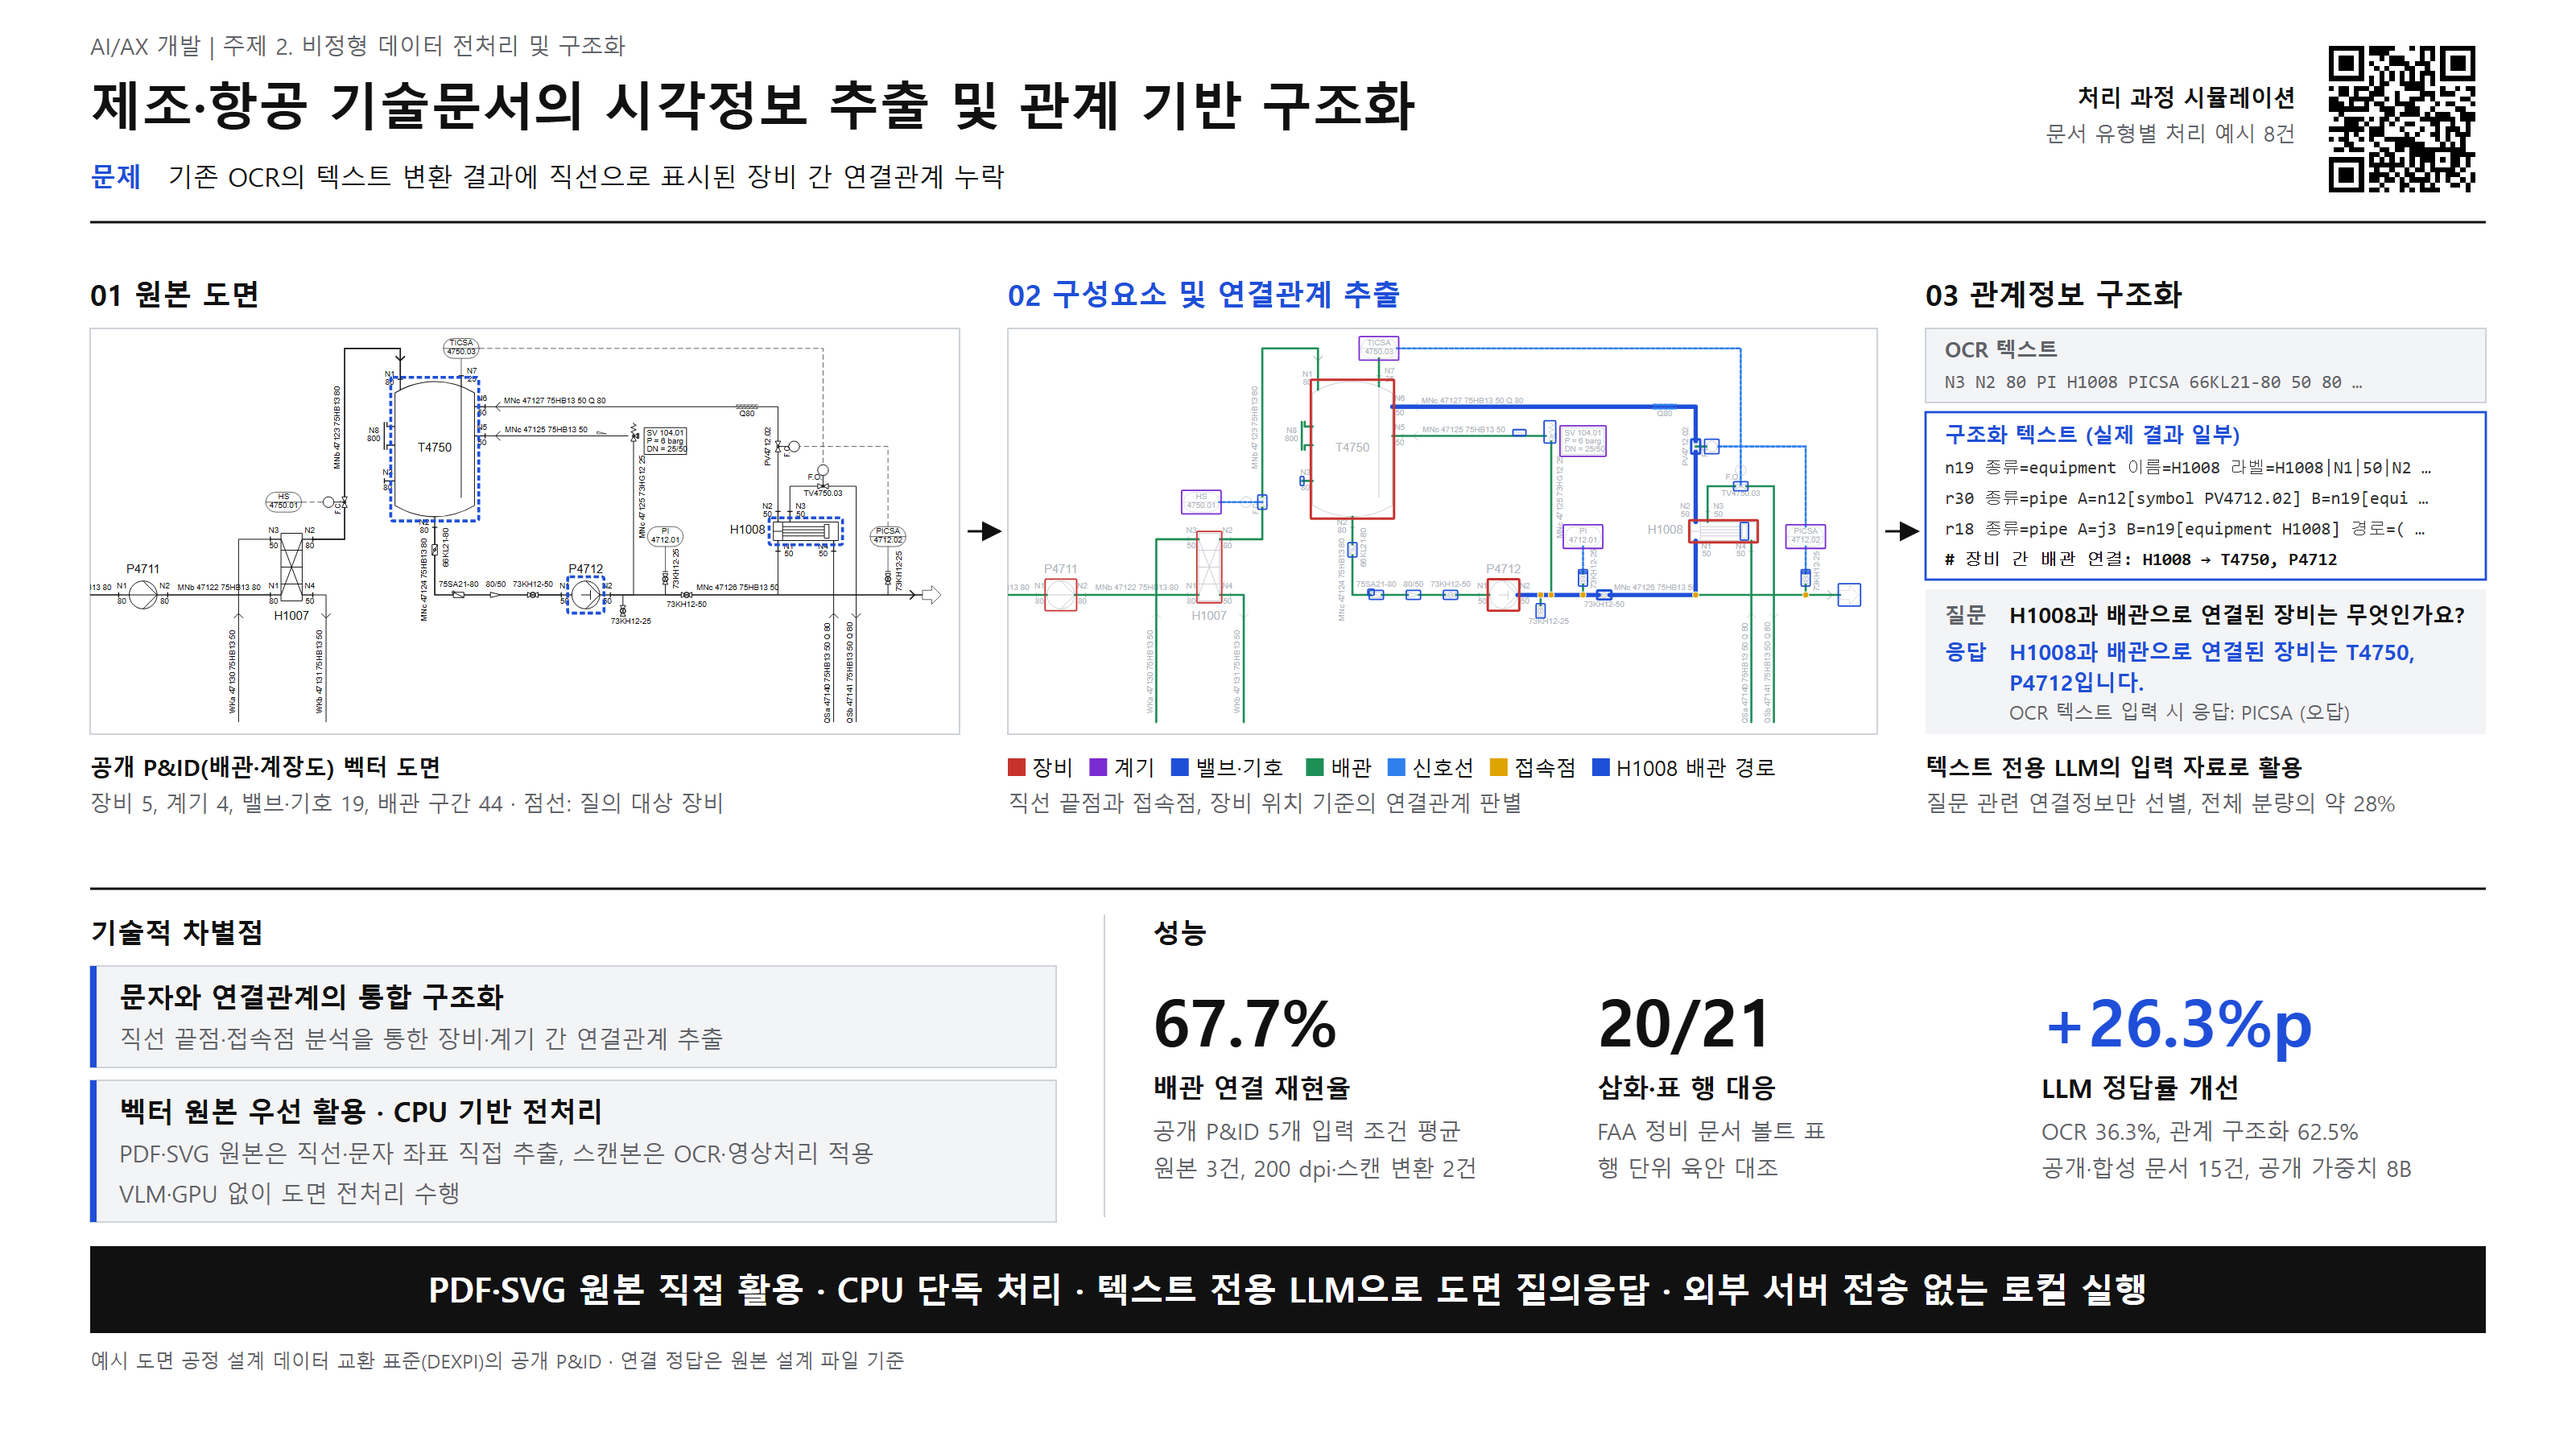
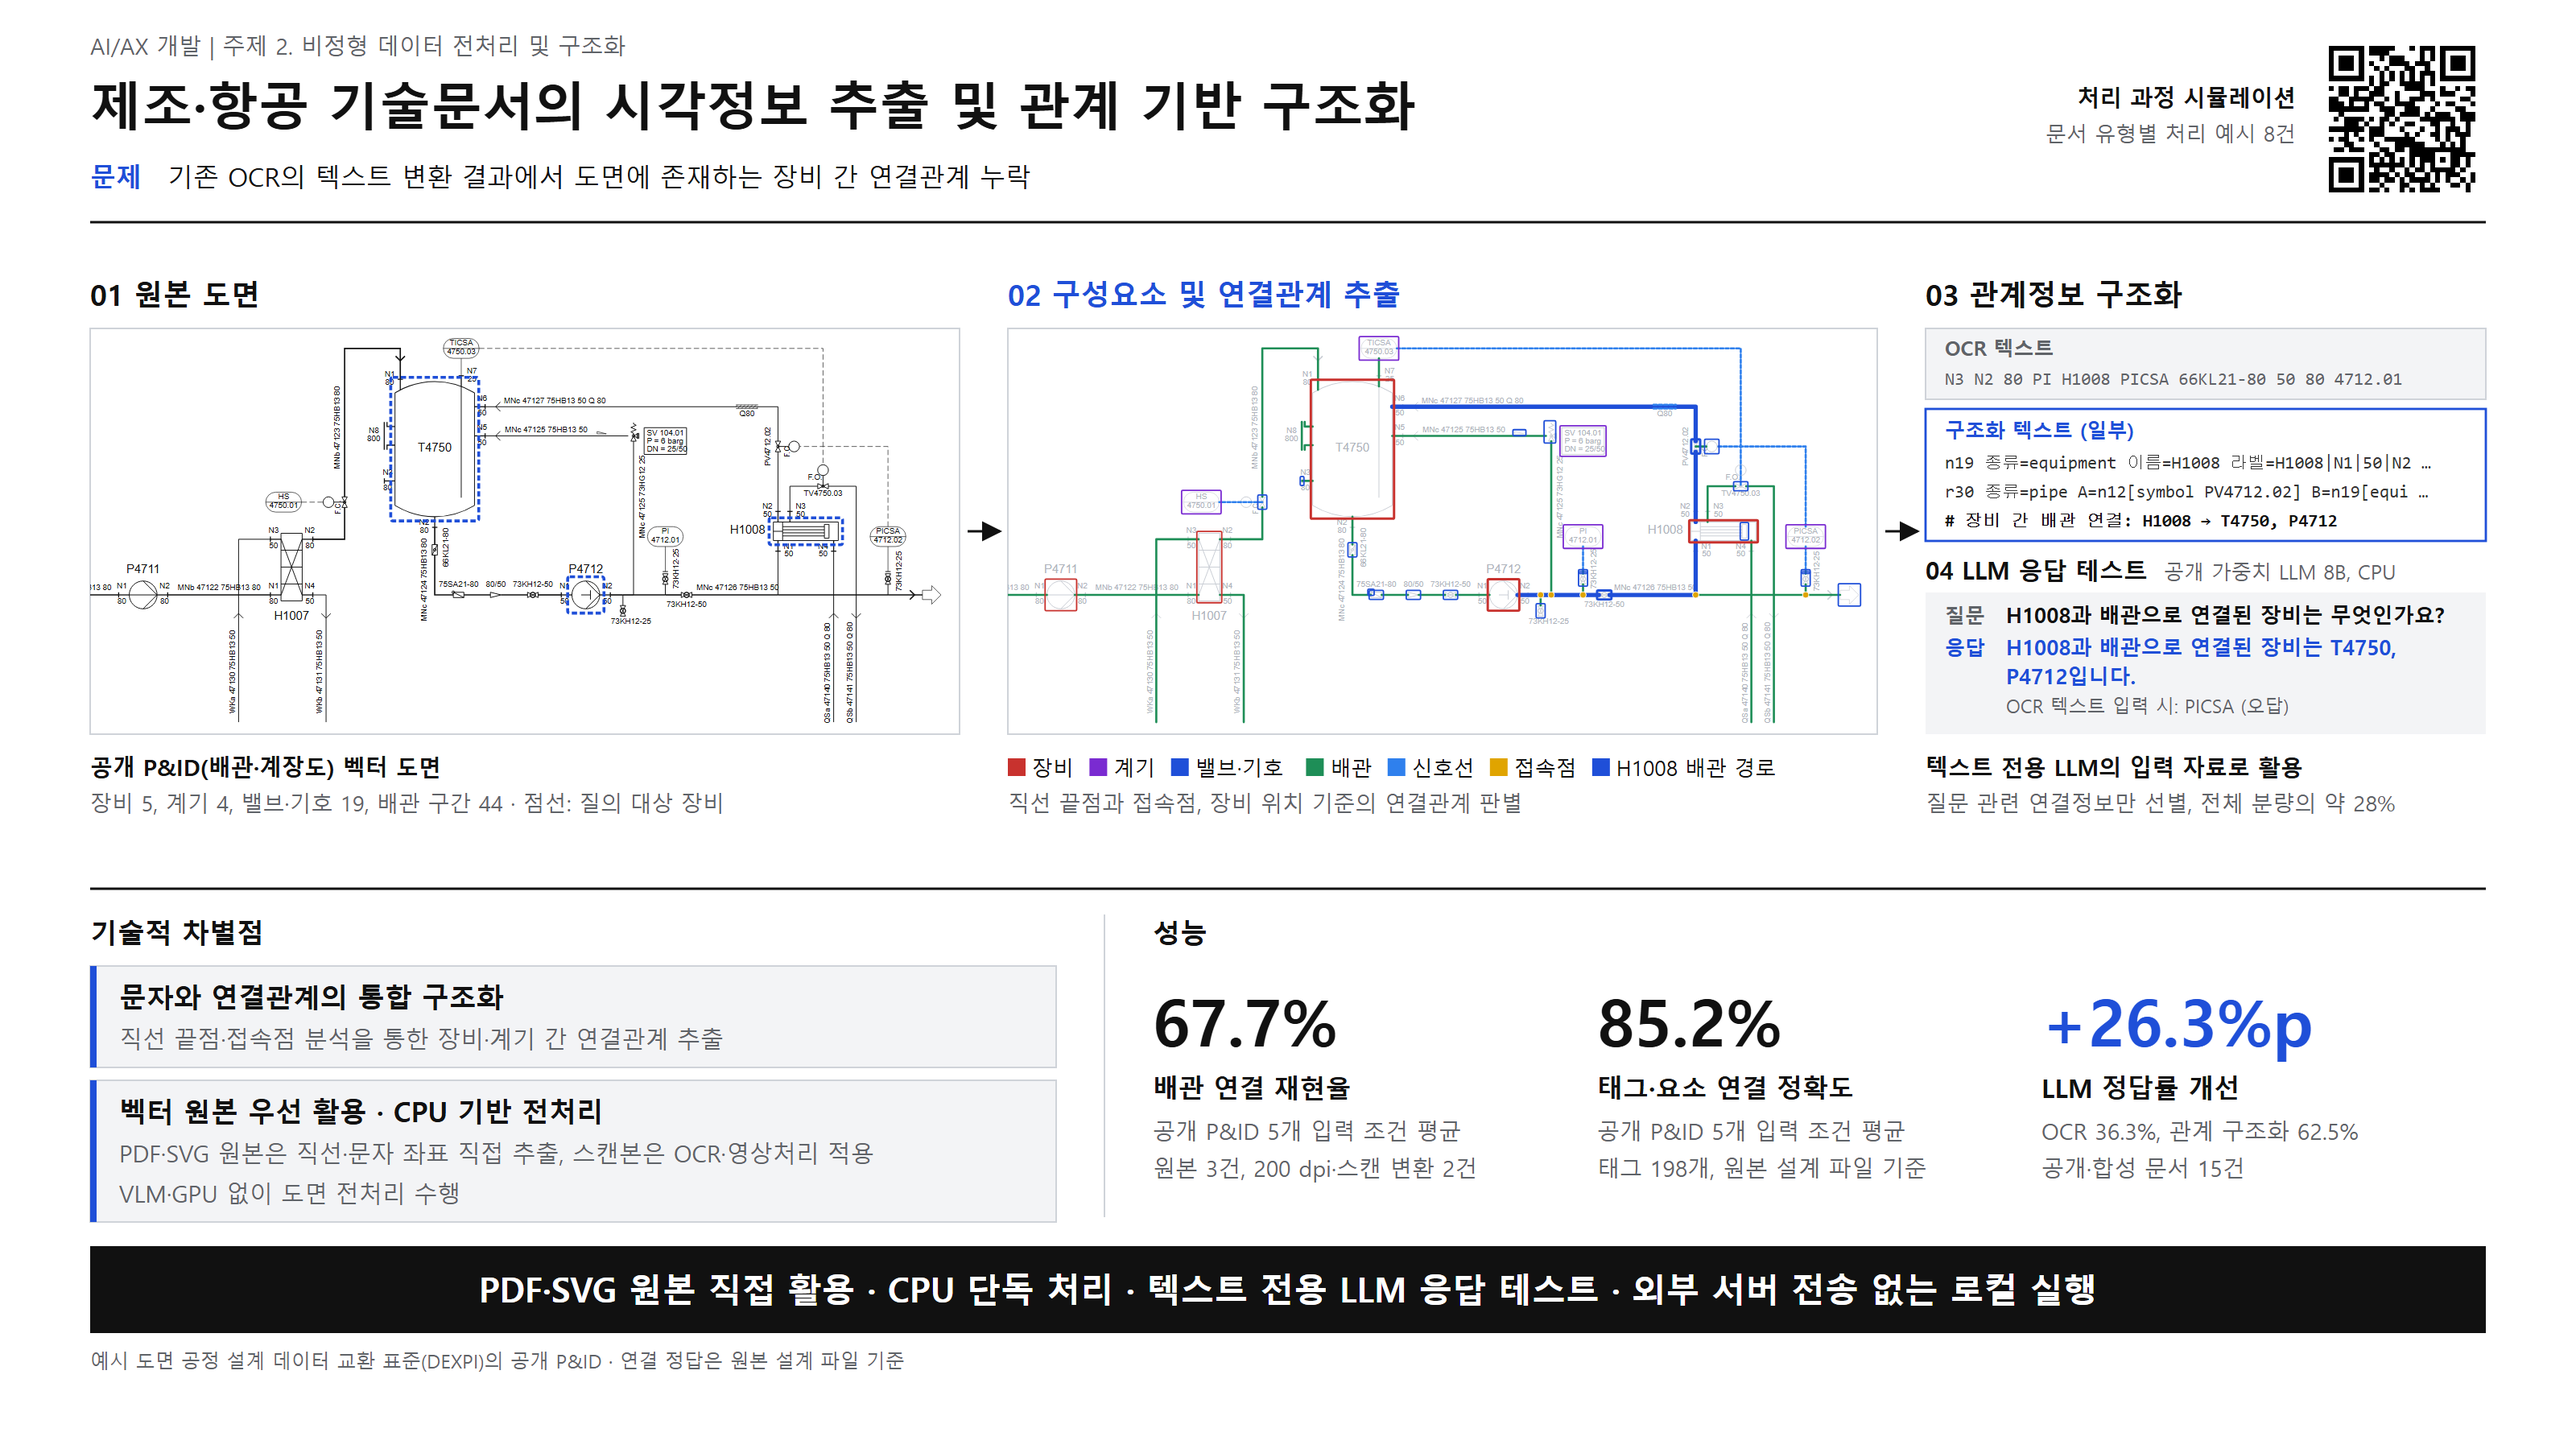
1장 슬라이드: LLM 응답 테스트 구획 분리, 태그·요소 연결 정확도로 성능 지표 교체, 문제 문구 수정

diff --git a/docs/figures/1장-도면-관계-구조화.html b/docs/figures/1장-도면-관계-구조화.html
@@ -4,7 +4,7 @@
 <text x="56" y="34" font-size="14" font-weight="400" fill="#5F6368" text-anchor="start">AI/AX 개발  |  주제 2. 비정형 데이터 전처리 및 구조화</text>
 <text x="56" y="78" font-size="32" font-weight="700" fill="#111111" text-anchor="start">제조·항공 기술문서의 시각정보 추출 및 관계 기반 구조화</text>
 <text x="56" y="116" font-size="16" font-weight="700" fill="#1F4FD8" text-anchor="start">문제</text>
-<text x="104" y="116" font-size="16" font-weight="400" fill="#111111" text-anchor="start">기존 OCR의 텍스트 변환 결과에 직선으로 표시된 장비 간 연결관계 누락</text>
+<text x="104" y="116" font-size="16" font-weight="400" fill="#111111" text-anchor="start">기존 OCR의 텍스트 변환 결과에서 도면에 존재하는 장비 간 연결관계 누락</text>
 <svg x="1440" y="22" width="104" height="104" viewBox="-2 -2 33 33"><rect x="-2" y="-2" width="33" height="33" fill="#FFFFFF"/><path d="M0 0.5h7m1 0h5m3 0h1m1 0h3m1 0h7m-29 1h1m5 0h1m1 0h4m6 0h1m1 0h1m1 0h1m5 0h1m-29 1h1m1 0h3m1 0h1m3 0h1m1 0h3m3 0h1m1 0h1m1 0h1m1 0h3m1 0h1m-29 1h1m1 0h3m1 0h1m1 0h1m3 0h4m1 0h3m2 0h1m1 0h3m1 0h1m-29 1h1m1 0h3m1 0h1m2 0h1m1 0h1m3 0h2m2 0h1m2 0h1m1 0h3m1 0h1m-29 1h1m5 0h1m3 0h1m1 0h1m1 0h1m1 0h1m1 0h3m1 0h1m5 0h1m-29 1h7m1 0h1m1 0h1m1 0h1m1 0h1m1 0h1m1 0h1m1 0h1m1 0h7m-21 1h1m1 0h2m2 0h5m1 0h1m-21 1h1m1 0h2m1 0h3m1 0h2m4 0h4m3 0h1m2 0h1m1 0h2m-27 1h2m1 0h1m2 0h3m2 0h1m4 0h3m1 0h3m3 0h1m-29 1h2m2 0h5m2 0h1m1 0h1m2 0h3m1 0h1m5 0h2m-28 1h3m1 0h1m2 0h1m1 0h2m2 0h4m4 0h1m1 0h2m3 0h1m-29 1h8m2 0h3m2 0h3m2 0h1m4 0h2m-25 1h1m8 0h2m1 0h4m1 0h1m1 0h3m2 0h3m-28 1h1m1 0h4m1 0h1m1 0h2m1 0h1m4 0h7m1 0h3m-26 1h3m1 0h1m2 0h1m1 0h1m2 0h2m3 0h2m2 0h1m2 0h1m-28 1h7m1 0h3m3 0h1m3 0h1m2 0h1m1 0h3m1 0h1m-25 1h1m1 0h1m2 0h3m4 0h1m1 0h1m2 0h2m1 0h1m1 0h3m-28 1h1m1 0h2m2 0h1m1 0h1m2 0h6m4 0h1m1 0h1m2 0h1m-24 1h2m4 0h1m3 0h6m3 0h1m1 0h1m1 0h1m-26 1h2m1 0h3m3 0h2m1 0h2m1 0h11m-19 1h2m1 0h2m3 0h5m3 0h5m-29 1h7m1 0h1m1 0h1m1 0h1m1 0h1m1 0h1m1 0h3m1 0h1m1 0h2m1 0h1m-28 1h1m5 0h1m1 0h7m1 0h1m1 0h1m1 0h1m3 0h2m1 0h1m-28 1h1m1 0h3m1 0h1m2 0h1m2 0h1m2 0h1m1 0h2m1 0h5m1 0h1m-27 1h1m1 0h3m1 0h1m1 0h4m1 0h1m1 0h2m2 0h1m1 0h1m1 0h3m2 0h1m-29 1h1m1 0h3m1 0h1m1 0h2m1 0h2m1 0h1m1 0h4m1 0h1m1 0h1m2 0h1m1 0h1m-29 1h1m5 0h1m3 0h1m3 0h2m2 0h1m1 0h1m3 0h2m1 0h1m-28 1h7m1 0h2m1 0h1m2 0h1m1 0h1m1 0h4m5 0h1" stroke="#000000" stroke-width="1" fill="none" shape-rendering="crispEdges"/></svg>
 <text x="1426" y="66" font-size="14" font-weight="700" fill="#111111" text-anchor="end">처리 과정 시뮬레이션</text>
 <text x="1426" y="88" font-size="13" font-weight="400" fill="#5F6368" text-anchor="end">문서 유형별 처리 예시 8건</text>
@@ -1246,22 +1246,23 @@
 <rect x="988.9299999999998" y="471" width="11" height="11" fill="#1F4FD8"/>
 <text x="1003.9299999999998" y="482" font-size="13" font-weight="400" fill="#111111" text-anchor="start">H1008 배관 경로</text>
 <text x="626" y="504" font-size="13.5" font-weight="400" fill="#5F6368" text-anchor="start">직선 끝점과 접속점, 장비 위치 기준의 연결관계 판별</text>
-<rect x="1196" y="204" width="348" height="46" rx="0" stroke="#CFD3D9" fill="#F3F4F6" stroke-width="1"/>
-<text x="1208" y="222" font-size="13" font-weight="700" fill="#5F6368" text-anchor="start">OCR 텍스트</text>
-<text x="1208" y="241" font-size="11.5" font-weight="400" fill="#5F6368" text-anchor="start" font-family="Consolas, 'Noto Sans KR', monospace">N3 N2 80 PI H1008 PICSA 66KL21-80 50 80 …</text>
-<rect x="1196" y="256" width="348" height="104" rx="0" stroke="#1F4FD8" fill="#FFFFFF" stroke-width="1.4"/>
-<text x="1208" y="275" font-size="13" font-weight="700" fill="#1F4FD8" text-anchor="start">구조화 텍스트 (실제 결과 일부)</text>
-<text x="1208" y="294" font-size="11" font-weight="400" fill="#333333" text-anchor="start" font-family="Consolas, 'Noto Sans KR', monospace">n19 종류=equipment 이름=H1008 라벨=H1008|N1|50|N2 …</text>
-<text x="1208" y="313" font-size="11" font-weight="400" fill="#333333" text-anchor="start" font-family="Consolas, 'Noto Sans KR', monospace">r30 종류=pipe A=n12[symbol PV4712.02] B=n19[equi …</text>
-<text x="1208" y="332" font-size="11" font-weight="400" fill="#333333" text-anchor="start" font-family="Consolas, 'Noto Sans KR', monospace">r18 종류=pipe A=j3 B=n19[equipment H1008] 경로=( …</text>
-<text x="1208" y="351" font-size="11" font-weight="700" fill="#111111" text-anchor="start" font-family="Consolas, 'Noto Sans KR', monospace"># 장비 간 배관 연결: H1008 → T4750, P4712</text>
-<rect x="1196" y="366" width="348" height="90" rx="0" stroke="none" fill="#F3F4F6" stroke-width="1"/>
-<text x="1208" y="387" font-size="13" font-weight="700" fill="#5F6368" text-anchor="start">질문</text>
-<text x="1248" y="387" font-size="13.5" font-weight="700" fill="#111111" text-anchor="start">H1008과 배관으로 연결된 장비는 무엇인가요?</text>
-<text x="1208" y="410" font-size="13" font-weight="700" fill="#1F4FD8" text-anchor="start">응답</text>
-<text x="1248" y="410" font-size="13.5" font-weight="700" fill="#1F4FD8" text-anchor="start">H1008과 배관으로 연결된 장비는 T4750,</text>
-<text x="1248" y="429" font-size="13.5" font-weight="700" fill="#1F4FD8" text-anchor="start">P4712입니다.</text>
-<text x="1248" y="447" font-size="12" font-weight="400" fill="#5F6368" text-anchor="start">OCR 텍스트 입력 시 응답: PICSA (오답)</text>
+<rect x="1196" y="204" width="348" height="44" rx="0" stroke="#CFD3D9" fill="#F3F4F6" stroke-width="1"/>
+<text x="1208" y="221" font-size="12.5" font-weight="700" fill="#5F6368" text-anchor="start">OCR 텍스트</text>
+<text x="1208" y="239" font-size="11" font-weight="400" fill="#5F6368" text-anchor="start" font-family="Consolas, 'Noto Sans KR', monospace">N3 N2 80 PI H1008 PICSA 66KL21-80 50 80 4712.01</text>
+<rect x="1196" y="254" width="348" height="82" rx="0" stroke="#1F4FD8" fill="#FFFFFF" stroke-width="1.4"/>
+<text x="1208" y="272" font-size="12.5" font-weight="700" fill="#1F4FD8" text-anchor="start">구조화 텍스트 (일부)</text>
+<text x="1208" y="291" font-size="11" font-weight="400" fill="#333333" text-anchor="start" font-family="Consolas, 'Noto Sans KR', monospace">n19 종류=equipment 이름=H1008 라벨=H1008|N1|50|N2 …</text>
+<text x="1208" y="309" font-size="11" font-weight="400" fill="#333333" text-anchor="start" font-family="Consolas, 'Noto Sans KR', monospace">r30 종류=pipe A=n12[symbol PV4712.02] B=n19[equi …</text>
+<text x="1208" y="327" font-size="11" font-weight="700" fill="#111111" text-anchor="start" font-family="Consolas, 'Noto Sans KR', monospace"># 장비 간 배관 연결: H1008 → T4750, P4712</text>
+<text x="1196" y="360" font-size="15" font-weight="700" fill="#111111" text-anchor="start">04  LLM 응답 테스트</text>
+<text x="1344.03" y="360" font-size="12.5" font-weight="400" fill="#5F6368" text-anchor="start">공개 가중치 LLM 8B, CPU</text>
+<rect x="1196" y="368" width="348" height="88" rx="0" stroke="none" fill="#F3F4F6" stroke-width="1"/>
+<text x="1208" y="387" font-size="12.5" font-weight="700" fill="#5F6368" text-anchor="start">질문</text>
+<text x="1246" y="387" font-size="13" font-weight="700" fill="#111111" text-anchor="start">H1008과 배관으로 연결된 장비는 무엇인가요?</text>
+<text x="1208" y="407" font-size="12.5" font-weight="700" fill="#1F4FD8" text-anchor="start">응답</text>
+<text x="1246" y="407" font-size="13" font-weight="700" fill="#1F4FD8" text-anchor="start">H1008과 배관으로 연결된 장비는 T4750,</text>
+<text x="1246" y="425" font-size="13" font-weight="700" fill="#1F4FD8" text-anchor="start">P4712입니다.</text>
+<text x="1246" y="443" font-size="11.5" font-weight="400" fill="#5F6368" text-anchor="start">OCR 텍스트 입력 시: PICSA (오답)</text>
 <text x="1196" y="482" font-size="14" font-weight="700" fill="#111111" text-anchor="start">텍스트 전용 LLM의 입력 자료로 활용</text>
 <text x="1196" y="504" font-size="13.5" font-weight="400" fill="#5F6368" text-anchor="start">질문 관련 연결정보만 선별, 전체 분량의 약 28%</text>
 <line x1="56" y1="552" x2="1544" y2="552" stroke="#111111" stroke-width="1.4"/>
@@ -1281,15 +1282,15 @@
 <text x="716.0" y="682" font-size="16" font-weight="700" fill="#111111" text-anchor="start">배관 연결 재현율</text>
 <text x="716.0" y="708" font-size="14" font-weight="400" fill="#5F6368" text-anchor="start">공개 P&amp;ID 5개 입력 조건 평균</text>
 <text x="716.0" y="731" font-size="14" font-weight="400" fill="#5F6368" text-anchor="start">원본 3건, 200 dpi·스캔 변환 2건</text>
-<text x="992.0" y="650" font-size="40" font-weight="700" fill="#111111" text-anchor="start">20/21</text>
-<text x="992.0" y="682" font-size="16" font-weight="700" fill="#111111" text-anchor="start">삽화·표 행 대응</text>
-<text x="992.0" y="708" font-size="14" font-weight="400" fill="#5F6368" text-anchor="start">FAA 정비 문서 볼트 표</text>
-<text x="992.0" y="731" font-size="14" font-weight="400" fill="#5F6368" text-anchor="start">행 단위 육안 대조</text>
+<text x="992.0" y="650" font-size="40" font-weight="700" fill="#111111" text-anchor="start">85.2%</text>
+<text x="992.0" y="682" font-size="16" font-weight="700" fill="#111111" text-anchor="start">태그·요소 연결 정확도</text>
+<text x="992.0" y="708" font-size="14" font-weight="400" fill="#5F6368" text-anchor="start">공개 P&amp;ID 5개 입력 조건 평균</text>
+<text x="992.0" y="731" font-size="14" font-weight="400" fill="#5F6368" text-anchor="start">태그 198개, 원본 설계 파일 기준</text>
 <text x="1268.0" y="650" font-size="40" font-weight="700" fill="#1F4FD8" text-anchor="start">+26.3%p</text>
 <text x="1268.0" y="682" font-size="16" font-weight="700" fill="#111111" text-anchor="start">LLM 정답률 개선</text>
 <text x="1268.0" y="708" font-size="14" font-weight="400" fill="#5F6368" text-anchor="start">OCR 36.3%, 관계 구조화 62.5%</text>
-<text x="1268.0" y="731" font-size="14" font-weight="400" fill="#5F6368" text-anchor="start">공개·합성 문서 15건, 공개 가중치 8B</text>
+<text x="1268.0" y="731" font-size="14" font-weight="400" fill="#5F6368" text-anchor="start">공개·합성 문서 15건</text>
 <rect x="56" y="774" width="1488" height="54" rx="0" stroke="none" fill="#111111" stroke-width="1"/>
-<text x="800.0" y="809" font-size="21" font-weight="700" fill="#FFFFFF" text-anchor="middle">PDF·SVG 원본 직접 활용   ·   CPU 단독 처리   ·   텍스트 전용 LLM으로 도면 질의응답   ·   외부 서버 전송 없는 로컬 실행</text>
+<text x="800.0" y="809" font-size="21" font-weight="700" fill="#FFFFFF" text-anchor="middle">PDF·SVG 원본 직접 활용   ·   CPU 단독 처리   ·   텍스트 전용 LLM 응답 테스트   ·   외부 서버 전송 없는 로컬 실행</text>
 <text x="56" y="850" font-size="12" font-weight="400" fill="#5F6368" text-anchor="start">예시 도면  공정 설계 데이터 교환 표준(DEXPI)의 공개 P&amp;ID  ·  연결 정답은 원본 설계 파일 기준</text>
 </svg></body></html>
